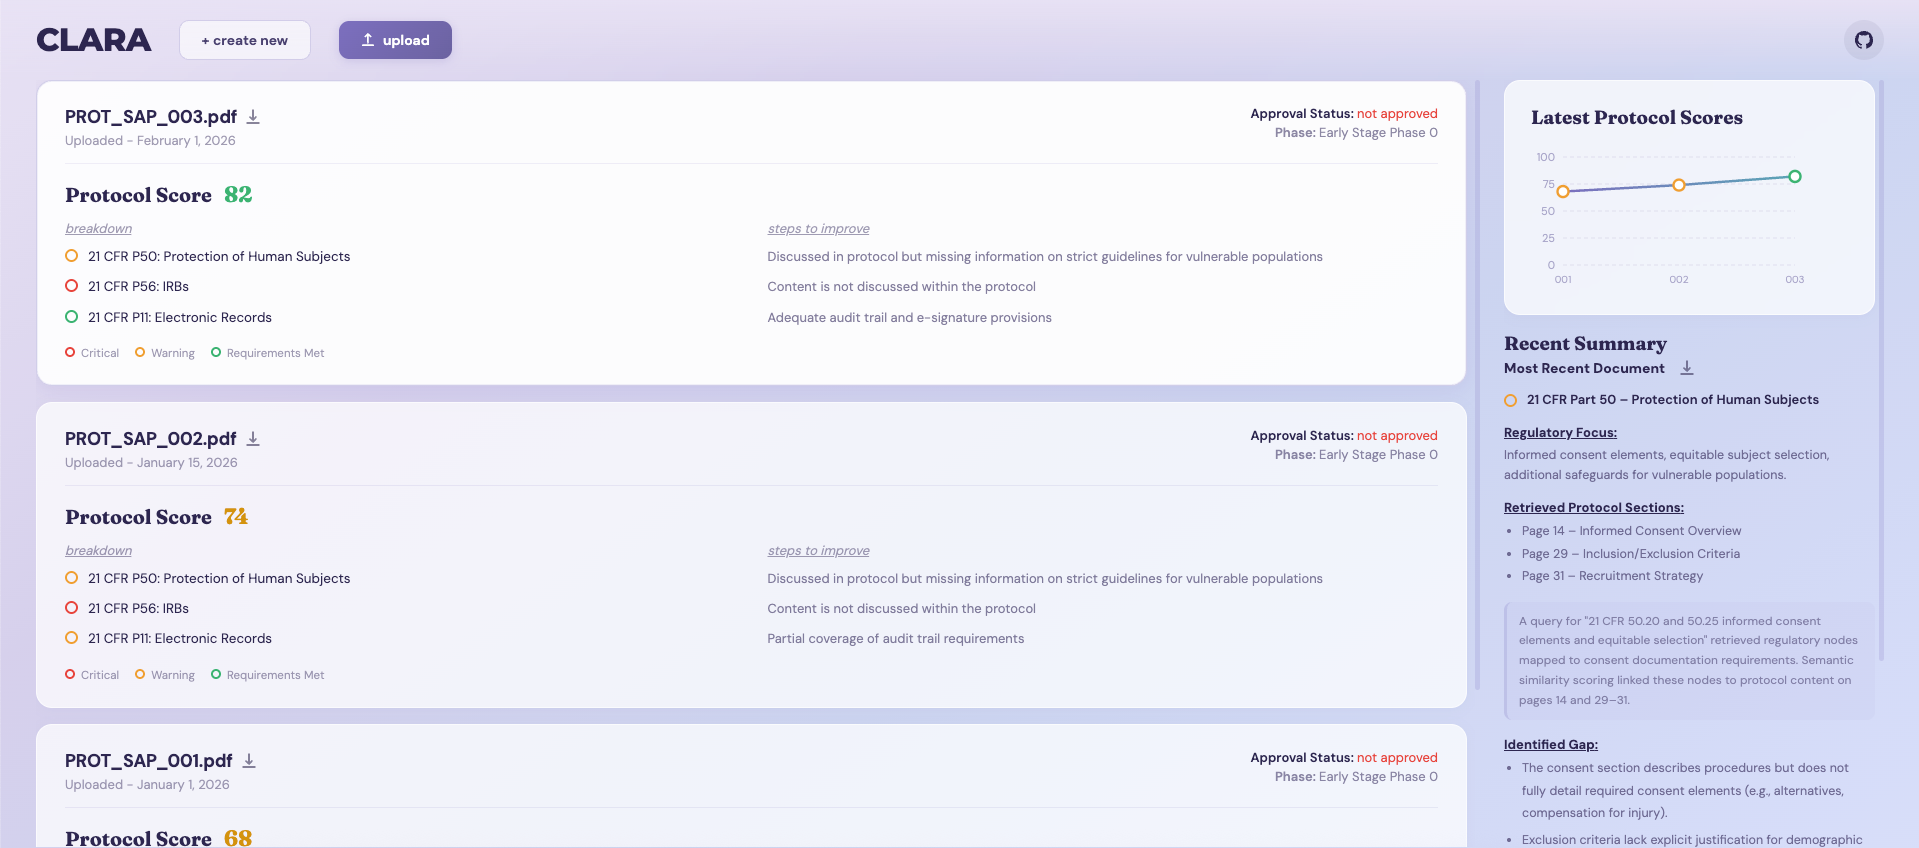
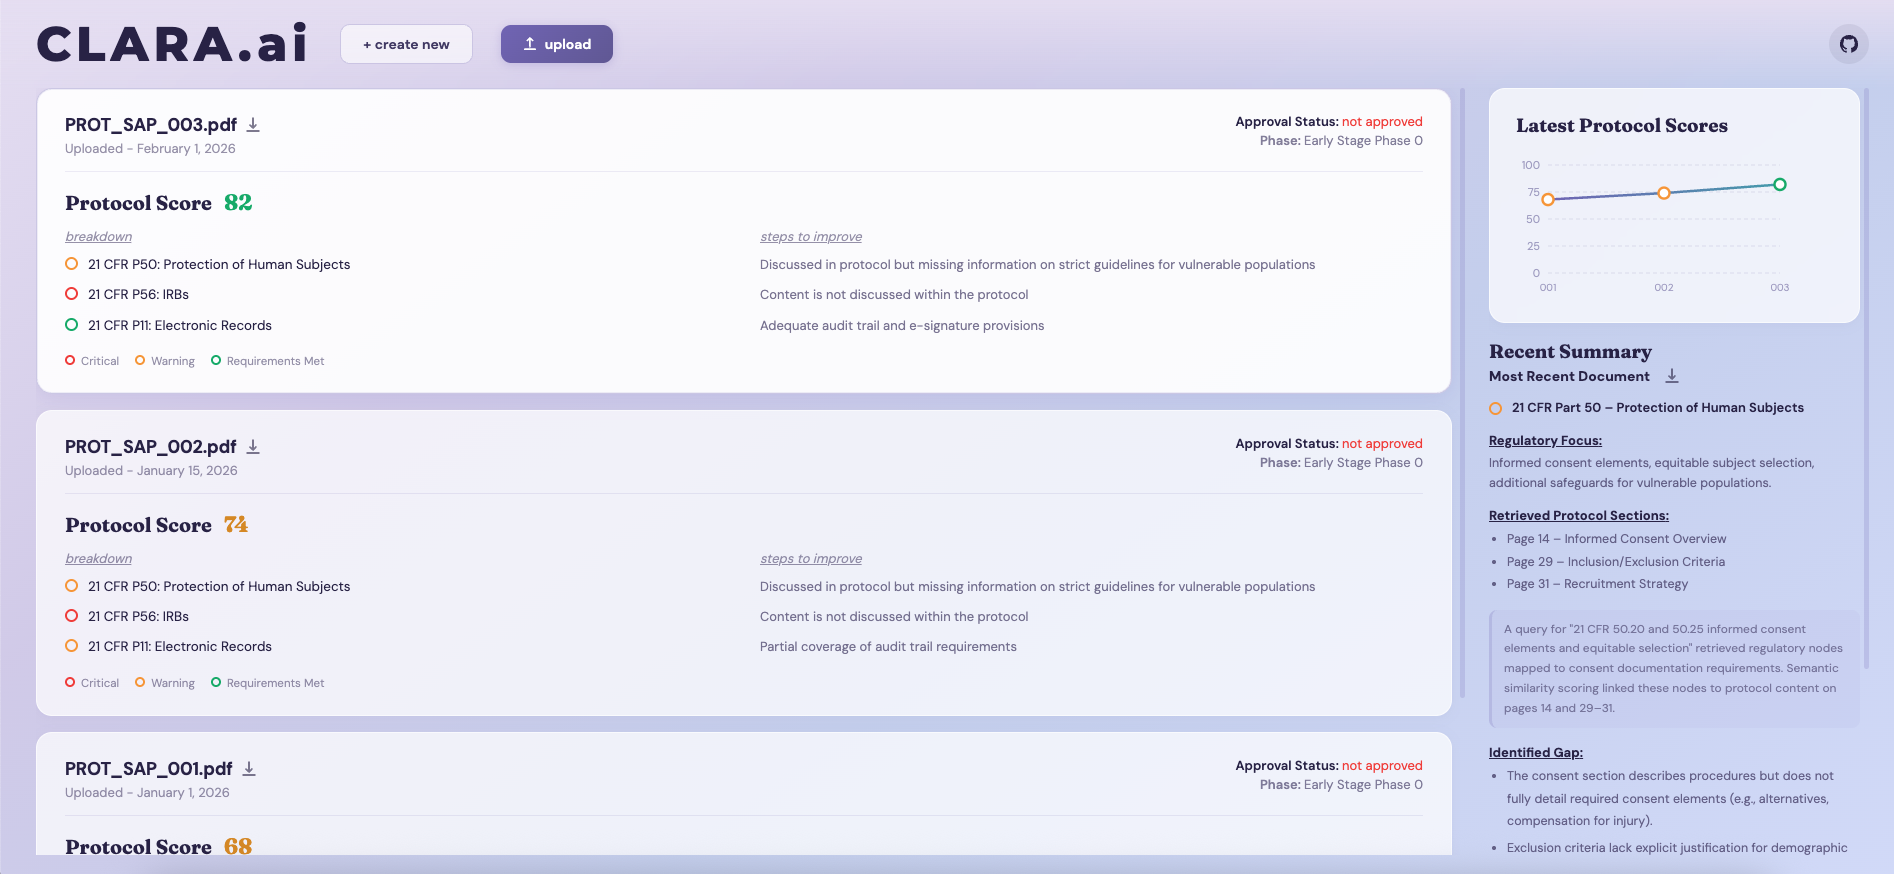
upload website sample

diff --git a/frontend/src/components/Header.jsx b/frontend/src/components/Header.jsx
@@ -27,7 +27,7 @@ export default function Header({ onUploadClick, onCreateClick }) {
             lineHeight: 1,
           }}
         >
-          CLARA
+          CLARA.ai
         </h1>
 
         <button className="btn-outline" onClick={onCreateClick}>
